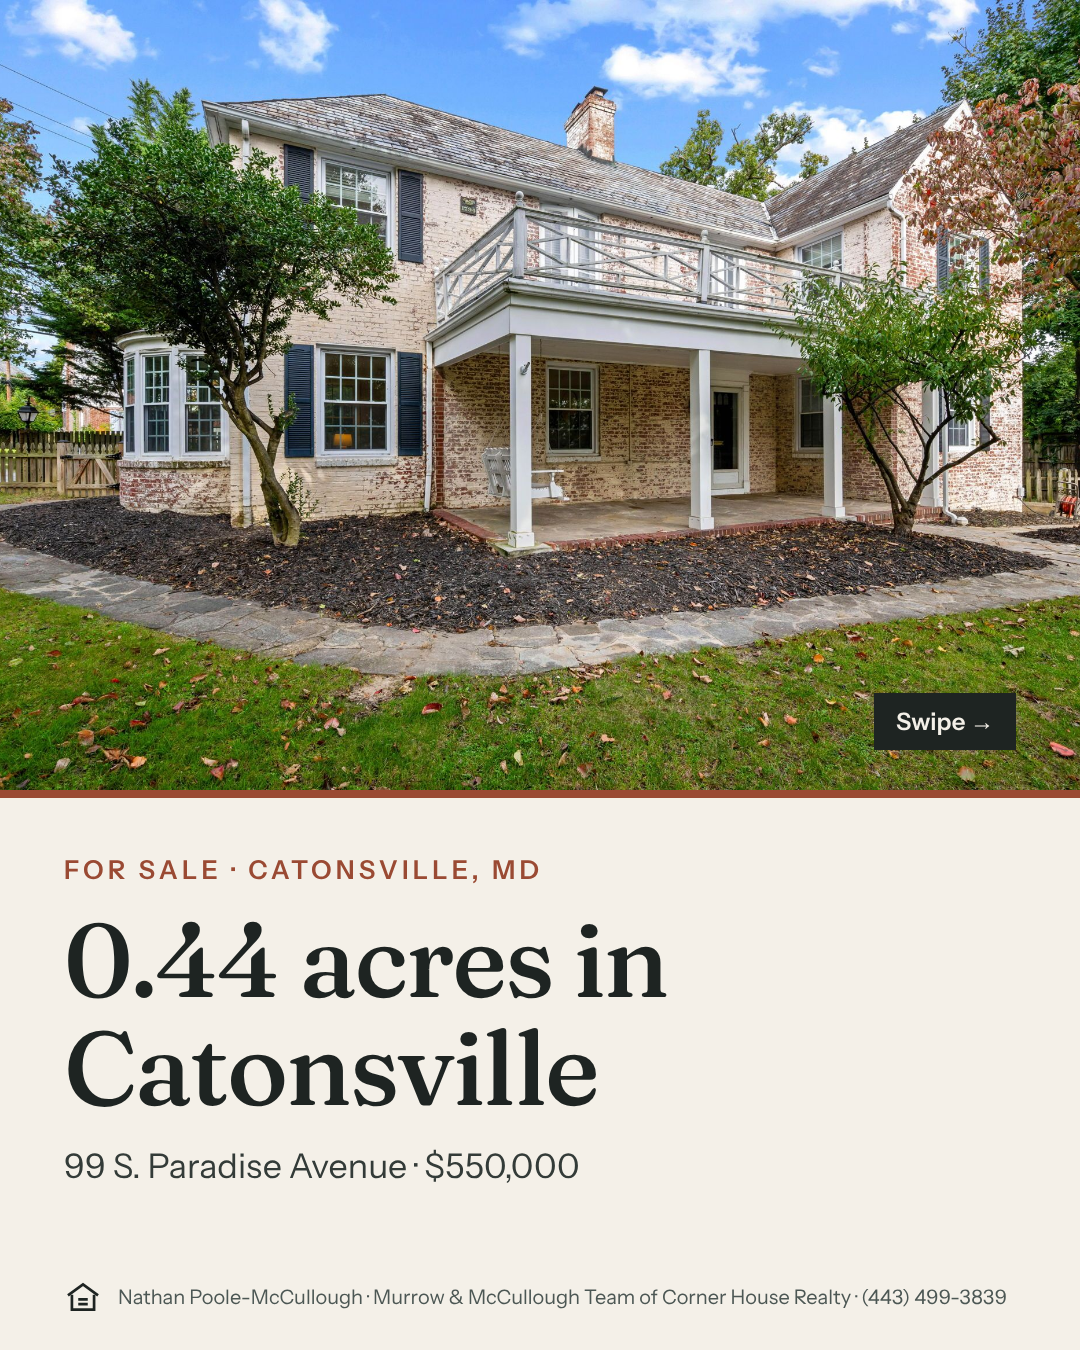
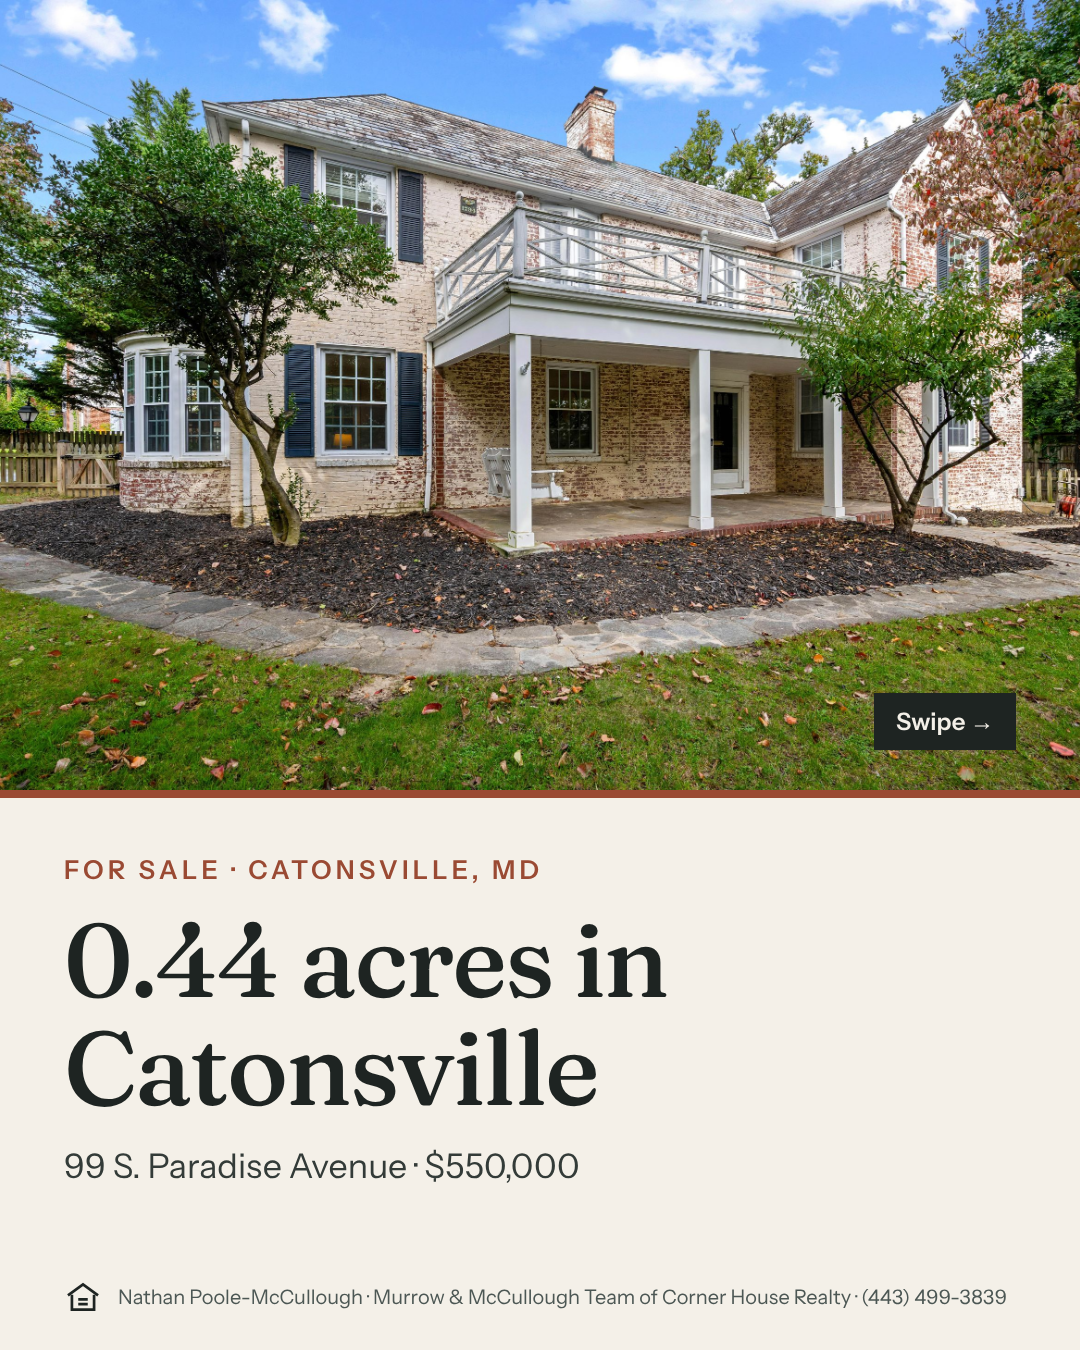
Add open house, back-on-market framing and inspection note to match the MLS remarks
Claude-Session: https://claude.ai/code/session_0159x4akuHrgLztkJw96Mi8H

diff --git a/listings/99-s-paradise-ave/index.html b/listings/99-s-paradise-ave/index.html
@@ -119,6 +119,9 @@
   .hero-price strong { font-family: var(--display); font-weight: 500; font-size: clamp(30px, 4.4vw, 44px); letter-spacing: -0.01em; }
   .hero-price span { font-size: 14px; color: var(--slate); }
 
+  .open-house { display: inline-block; margin-top: 22px; padding: 12px 18px; background: var(--moss); color: var(--moss-ink); font-size: 16px; }
+  .open-house strong { font-weight: 600; margin-right: 8px; text-transform: uppercase; letter-spacing: .1em; font-size: 13px; }
+
   /* Stat rail */
   .stats { margin-top: clamp(28px, 4vw, 48px); border-top: 1px solid var(--line); border-bottom: 1px solid var(--line); }
   .stats ul { list-style: none; margin: 0; padding: 0; display: grid; grid-template-columns: repeat(5, 1fr); }
@@ -181,6 +184,8 @@
   dl.facts div { display: flex; justify-content: space-between; gap: 20px; padding: 14px 0; border-top: 1px solid var(--line); font-size: 16px; }
   dl.facts dt { color: var(--slate); }
   dl.facts dd { margin: 0; text-align: right; font-weight: 500; }
+  .goodtoknow { color: var(--ink); font-size: 15px; padding: 16px 18px; background: var(--paper-deep); border-left: 3px solid var(--moss); }
+  .goodtoknow strong { font-weight: 600; }
   .fineprint { margin-top: 22px; font-size: 14px; color: var(--slate); max-width: 62ch; }
 
   /* Showing */
@@ -273,13 +278,15 @@
     <div class="slot" data-label="front exterior (hero)"><img src="photos/p01.jpg" alt="Front of the brick home at 99 S. Paradise Avenue, with its covered porch and balcony" onerror="this.remove()" fetchpriority="high"></div>
     <div class="wrap">
       <div class="hero-card">
-        <div class="eyebrow">For sale · Tanglewood, Catonsville</div>
+        <div class="eyebrow">Back on the market · Tanglewood, Catonsville</div>
         <h1>99 S. Paradise Avenue</h1>
         <p class="hero-sub">Catonsville, Maryland 21228</p>
         <div class="hero-price">
           <strong class="num">$550,000</strong>
           <span>MLS # MDBC2175364 · Listed by Corner House Realty</span>
         </div>
+        <!-- Remove this line after the open house -->
+        <p class="open-house"><strong>Open house</strong> Sunday, November 15 · 10:00 am to 12:00 pm</p>
       </div>
 
       <div class="stats">
@@ -311,7 +318,7 @@
         <h2>What 1941 got right, and what has been added since</h2>
       </div>
       <div class="feat-grid">
-        <div class="feat"><h3>Brick, start to finish</h3><p>Solid brick construction with a German-smear finish that gives the exterior its soft, textured look.</p></div>
+        <div class="feat"><h3>Brick and slate</h3><p>Solid brick with a German-smear finish and a slate roof, the materials that give the house its curb appeal.</p></div>
         <div class="feat"><h3>Original character</h3><p>Arched doorways, built-ins and hardwood floors through much of the home.</p></div>
         <div class="feat"><h3>A residential elevator</h3><p>Moves between levels without the stairs. Useful now, and it keeps the house workable for the long run.</p></div>
         <div class="feat"><h3>0.44-acre corner lot</h3><p>Mature trees, privacy, and a yard fully fenced in both the front and the back.</p></div>
@@ -388,6 +395,7 @@
           <div><dt>Community</dt><dd>Tanglewood</dd></div>
           <div><dt>Terms</dt><dd>Sold as-is</dd></div>
         </dl>
+        <p class="fineprint goodtoknow"><strong>Good to know.</strong> The home is back on the market after the first buyer withdrew. The inspection report is available on request. Items it identified include a few cracked slate roof tiles, which are being evaluated, electrical wiring repairs, which are being addressed, and an area that needs mold remediation.</p>
         <p class="fineprint">Listing information from Bright MLS, # MDBC2175364. Information is deemed reliable but is not guaranteed and should be independently verified.</p>
       </div>
     </div>

diff --git a/listings/99-s-paradise-ave/social-kit.md b/listings/99-s-paradise-ave/social-kit.md
@@ -70,3 +70,14 @@ The story leaves the bottom of the frame clear for a link sticker.
 
 - **Still to add:** music, and drone footage if HomeTrack shot any (the zip had photos only).
 - **Higgsfield:** not used yet and no credits spent. The balance is 131.6 credits.
+
+## Open house: Sunday, November 15, 10:00 am to 12:00 pm
+
+Graphics: `social/open-house-story-9x16.png` and `social/open-house-feed-4x5.png`.
+
+**Caption**
+Open house this Sunday, 10 to noon.
+99 S. Paradise Ave is back on the market at $550,000: a 1941 brick home on 0.44 acres in Tanglewood, with 3 bedrooms, 3.5 baths and a residential elevator.
+The inspection report is available, so you can walk in knowing what the house needs. Come see it in person.
+
+Nathan Poole-McCullough, Murrow & McCullough Team of Corner House Realty · office (443) 499-3839 · Equal Housing Opportunity
